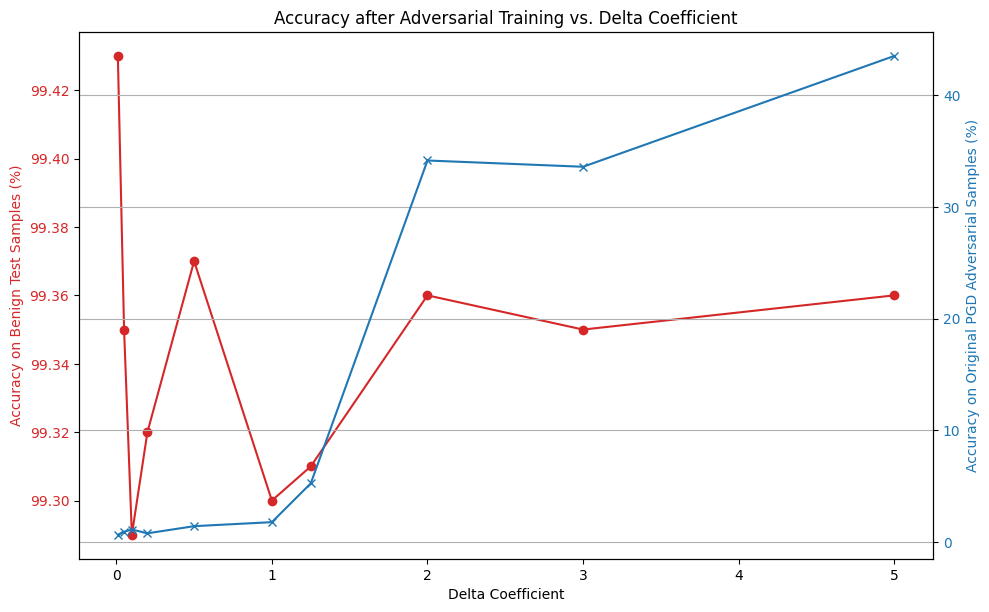
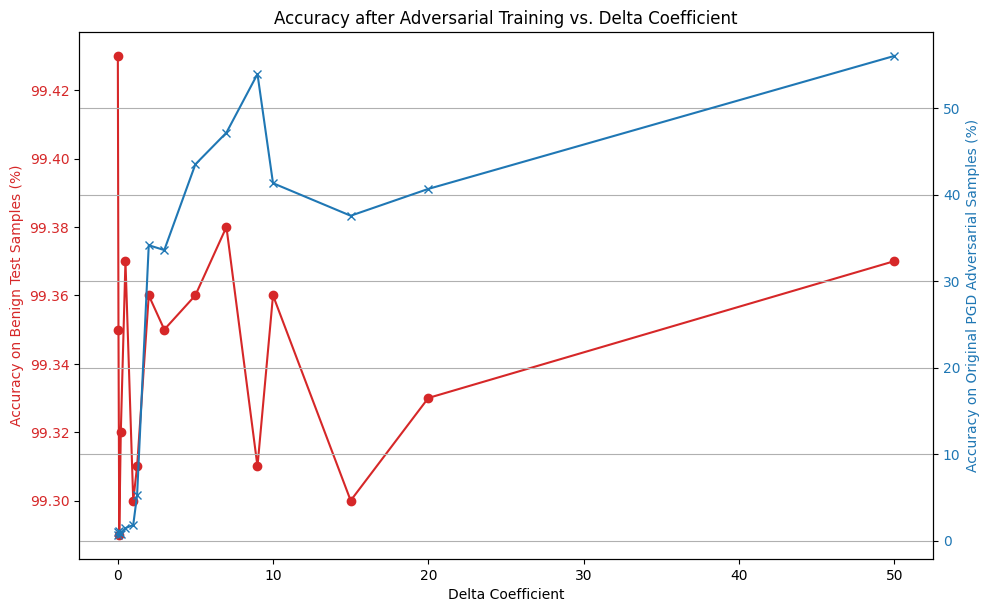
test

diff --git a/art/defences/trainer/adversarial_trainer_ba_pytorch.py b/art/defences/trainer/adversarial_trainer_ba_pytorch.py
@@ -230,7 +230,7 @@ class AdversarialTrainerBAPyTorch(AdversarialTrainerFBF):
         # m = np.prod(x_batch.shape[1:]).item()
         # noise = random_sphere(n, m, self._eps, np.inf).reshape(x_batch.shape).astype(ART_NUMPY_DTYPE)
 
-        self.delta = np.clip(self.delta + h_delta * delta_grad + 0.05 * np.sqrt(h_delta) * noise, -self._eps, +self._eps).astype(np.float32)
+        self.delta = np.clip(self.delta + h_delta * delta_grad + 0.1 * np.sqrt(h_delta) * noise, -self._eps, +self._eps).astype(np.float32)
 
         # theta update
         if self._classifier.clip_values is not None:

diff --git a/examples/plot_log.py b/examples/plot_log.py
@@ -3,7 +3,7 @@ import re
 import matplotlib.pyplot as plt
 
 # Step 1: List all the log files
-log_directory = 'log15'
+log_directory = 'log60'
 log_files = [f for f in os.listdir(log_directory) if re.match(r'delta_coeff=.*\.log', f)]
 
 # Dictionaries to hold the extracted data
